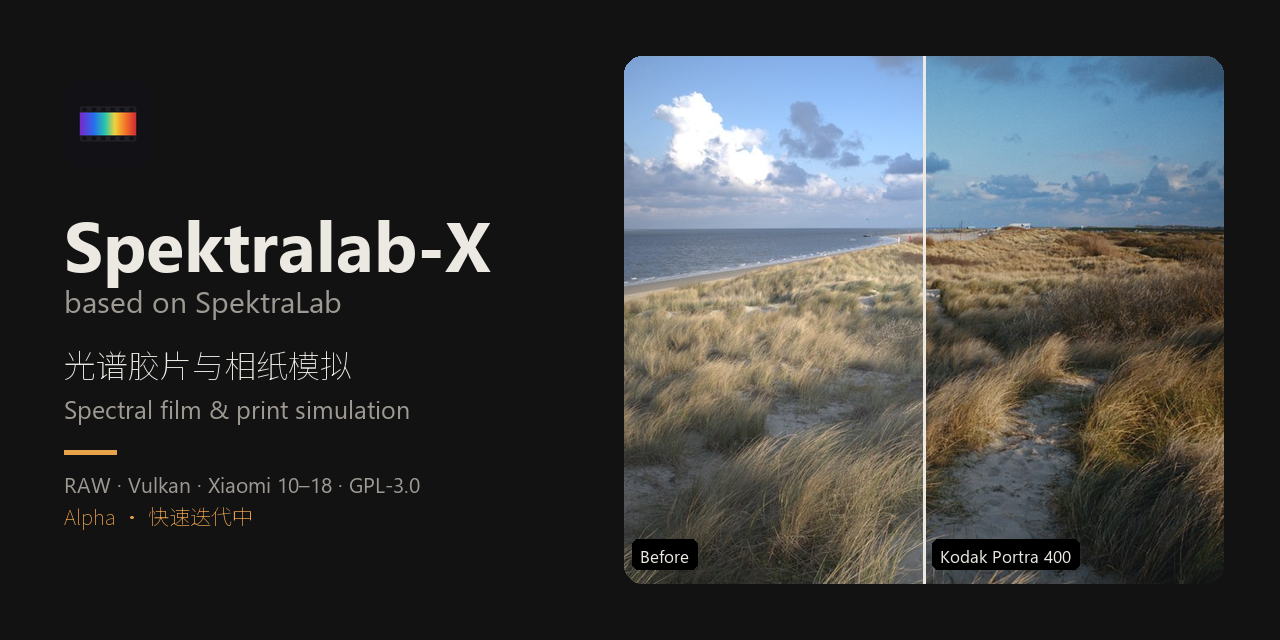
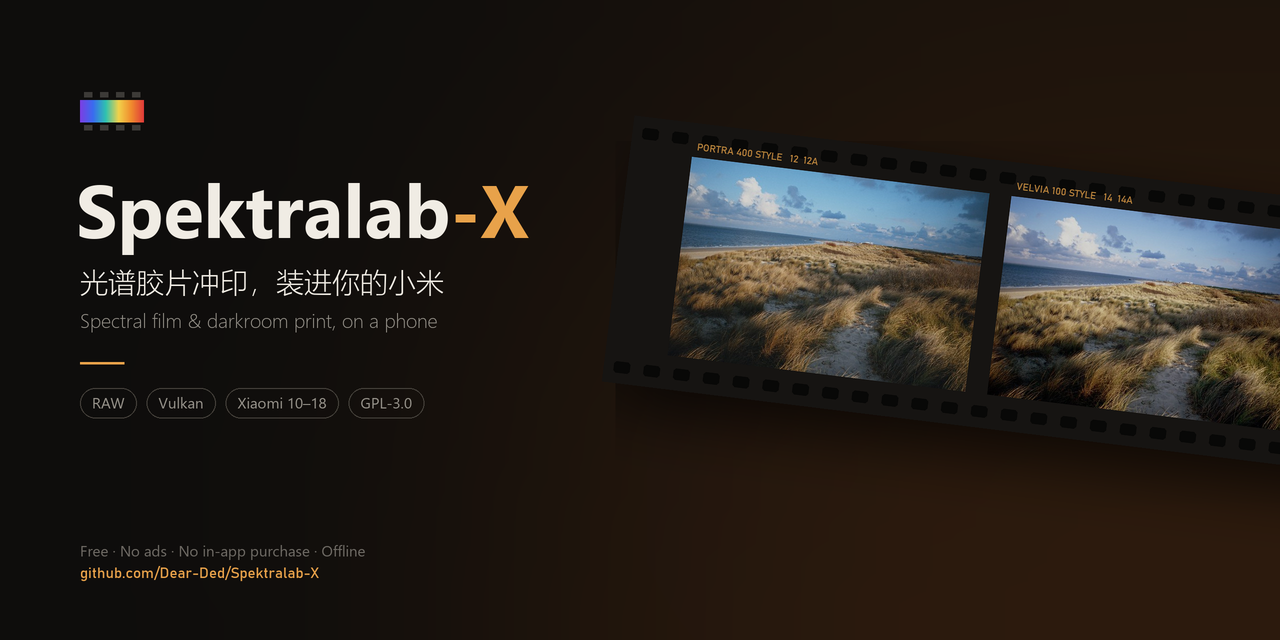
Social preview: wordmark and a strip of real engine renders (Portra 400 / Velvia 100 styles)

diff --git a/docs/images/make-social-preview.py b/docs/images/make-social-preview.py
@@ -1,0 +1,135 @@
+"""Social preview for the repo (1280x640): wordmark on the left, a strip of
+negative with three real engine renders of the same frame on the right.
+Drawn at 2x and downsampled.  python social_preview.py <films_dunes.jpg> <out.png>"""
+import sys
+from PIL import Image, ImageDraw, ImageFilter, ImageFont
+
+S = 2
+W, H = 1280 * S, 640 * S
+BG = (14, 13, 12)
+FG = (240, 236, 228)
+DIM = (150, 146, 138)
+AMBER = (232, 162, 74)
+EDGE_INK = (232, 162, 74)
+SPECTRUM = [(123, 63, 228), (58, 108, 240), (47, 194, 176), (242, 210, 74), (240, 138, 46), (224, 56, 58)]
+
+def font(name, size):
+    for n in name:
+        try:
+            return ImageFont.truetype(n, size * S)
+        except OSError:
+            pass
+    return ImageFont.load_default()
+
+BOLD = ["C:/Windows/Fonts/segoeuib.ttf", "C:/Windows/Fonts/msyhbd.ttc"]
+REG = ["C:/Windows/Fonts/segoeui.ttf", "C:/Windows/Fonts/msyh.ttc"]
+LIGHT = ["C:/Windows/Fonts/segoeuil.ttf", "C:/Windows/Fonts/msyhl.ttc", "C:/Windows/Fonts/msyh.ttc"]
+CJK = ["C:/Windows/Fonts/msyhl.ttc", "C:/Windows/Fonts/msyh.ttc"]
+MONO = ["C:/Windows/Fonts/bahnschrift.ttf", "C:/Windows/Fonts/consola.ttf"]
+
+def lerp(a, b, t):
+    return tuple(int(a[i] + (b[i] - a[i]) * t) for i in range(3))
+
+def spectrum(t):
+    n = len(SPECTRUM) - 1
+    i = min(int(t * n), n - 1)
+    return lerp(SPECTRUM[i], SPECTRUM[i + 1], t * n - i)
+
+def tiles(src):
+    im = Image.open(src).convert("RGB")
+    tile, gap, pad = 629, 16, 40
+    th = round(tile * 1067 / 1600)
+    out = {}
+    names = ["portra", "ektar", "gold", "cine", "velvia", "trix"]
+    for k, n in enumerate(names):
+        x = pad + (k % 3) * (tile + gap)
+        y = pad + (k // 3) * (th + 64)
+        out[n] = im.crop((x + 2, y + 2, x + tile - 2, y + th - 2))
+    return out
+
+def main(src, dst):
+    img = Image.new("RGB", (W, H), BG)
+
+    # Safelight glow, low and warm, behind the strip.
+    glow = Image.new("RGB", (W, H), BG)
+    gd = ImageDraw.Draw(glow)
+    gd.ellipse((W * 0.40, H * 0.10, W * 1.25, H * 1.30), fill=(70, 38, 14))
+    glow = glow.filter(ImageFilter.GaussianBlur(220 * S))
+    img = Image.blend(img, glow, 0.55)
+    d = ImageDraw.Draw(img)
+
+    # Film strip, slightly tilted, three frames.
+    t = tiles(src)
+    fw, fh = 300 * S, 200 * S
+    gapf = 22 * S
+    rebate = 34 * S
+    sw = 3 * fw + 4 * gapf + 260 * S
+    sh = fh + 2 * rebate
+    strip = Image.new("RGBA", (sw, sh), (22, 20, 18, 255))
+    sd = ImageDraw.Draw(strip)
+    # sprocket holes
+    hw, hh, pitch = 16 * S, 11 * S, 30 * S
+    x = 10 * S
+    while x < sw:
+        for y in (11 * S, sh - 11 * S - hh):
+            sd.rounded_rectangle((x, y, x + hw, y + hh), radius=3 * S, fill=(8, 8, 7, 255))
+        x += pitch
+    # frames
+    order = [("portra", "PORTRA 400 STYLE"), ("velvia", "VELVIA 100 STYLE"), ("trix", "TRI-X 400 STYLE")]
+    edge = font(MONO, 10)
+    fx = gapf + 40 * S
+    for i, (key, label) in enumerate(order):
+        fr = t[key].resize((fw, fh), Image.LANCZOS)
+        strip.paste(fr, (fx, rebate))
+        sd.text((fx + 4 * S, rebate - 15 * S), f"{label}   {i * 2 + 12}  {i * 2 + 12}A", font=edge, fill=EDGE_INK + (200,))
+        fx += fw + gapf
+    sd.text((fx + 6 * S, rebate + fh / 2 - 8 * S), "SPEKTRALAB-X", font=font(MONO, 13), fill=EDGE_INK + (160,))
+    strip = strip.rotate(-7, resample=Image.BICUBIC, expand=True)
+    # drop shadow
+    shadow = Image.new("RGBA", strip.size, (0, 0, 0, 0))
+    shadow.paste((0, 0, 0, 170), mask=strip.split()[3])
+    shadow = shadow.filter(ImageFilter.GaussianBlur(28 * S))
+    ox, oy = int(W * 0.47), int(H * 0.18)
+    img.paste(shadow, (ox + 14 * S, oy + 26 * S), shadow)
+    img.paste(strip, (ox, oy), strip)
+
+    # Left column.
+    d = ImageDraw.Draw(img)
+    lx = 80 * S
+    # icon: spectrum frame
+    iy = 92 * S
+    for k in range(64 * S):
+        d.line((lx + k, iy + 8 * S, lx + k, iy + 30 * S), fill=spectrum(k / (64 * S)))
+    for k in range(4):
+        hx = lx + 4 * S + k * 16 * S
+        d.rectangle((hx, iy, hx + 8 * S, iy + 5 * S), fill=(60, 58, 55))
+        d.rectangle((hx, iy + 33 * S, hx + 8 * S, iy + 38 * S), fill=(60, 58, 55))
+
+    d.text((lx - 4 * S, 158 * S), "Spektralab", font=font(BOLD, 74), fill=FG)
+    wx = lx - 4 * S + d.textlength("Spektralab", font=font(BOLD, 74))
+    d.text((wx, 158 * S), "-X", font=font(BOLD, 74), fill=AMBER)
+
+    d.text((lx, 262 * S), "光谱胶片冲印，装进你的小米", font=font(CJK, 28), fill=FG)
+    d.text((lx, 306 * S), "Spectral film & darkroom print, on a phone", font=font(LIGHT, 20), fill=DIM)
+
+    d.rectangle((lx, 362 * S, lx + 44 * S, 364 * S), fill=AMBER)
+
+    tags = ["RAW", "Vulkan", "Xiaomi 10–18", "GPL-3.0"]
+    tx = lx
+    f = font(REG, 15)
+    for tag in tags:
+        tw = d.textlength(tag, font=f)
+        d.rounded_rectangle((tx, 388 * S, tx + tw + 24 * S, 418 * S), radius=15 * S, outline=(70, 66, 60), width=S)
+        d.text((tx + 12 * S, 392 * S), tag, font=f, fill=DIM)
+        tx += tw + 34 * S
+
+    d.text((lx, 540 * S), "Free · No ads · No in-app purchase · Offline", font=font(REG, 15), fill=(110, 106, 100))
+    d.text((lx, 566 * S), "github.com/Dear-Ded/Spektralab-X", font=font(MONO, 15), fill=AMBER)
+
+    # Fine film grain over everything except nothing; very light.
+    out = img.resize((1280, 640), Image.LANCZOS)
+    out.save(dst, optimize=True)
+    print("ok", out.size)
+
+if __name__ == "__main__":
+    main(sys.argv[1], sys.argv[2])
